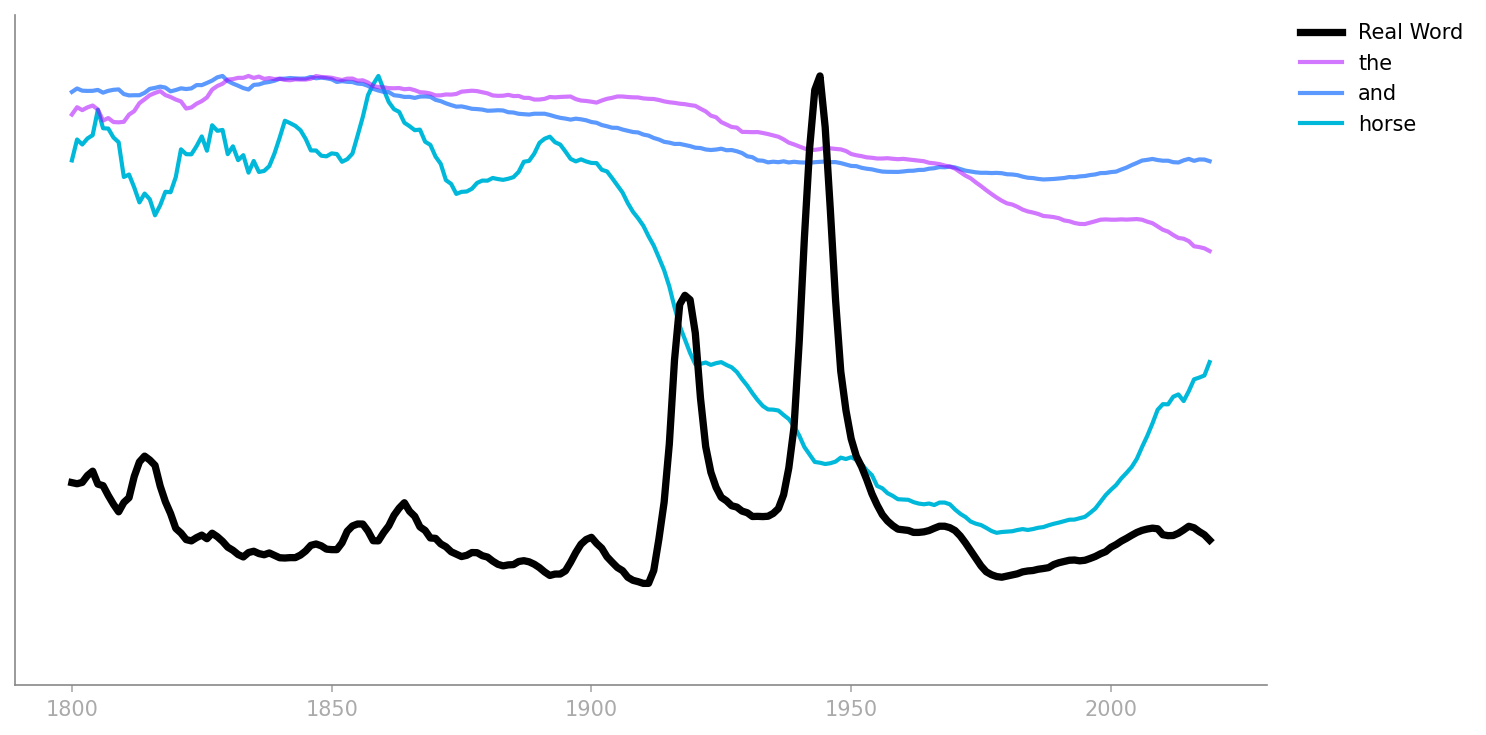
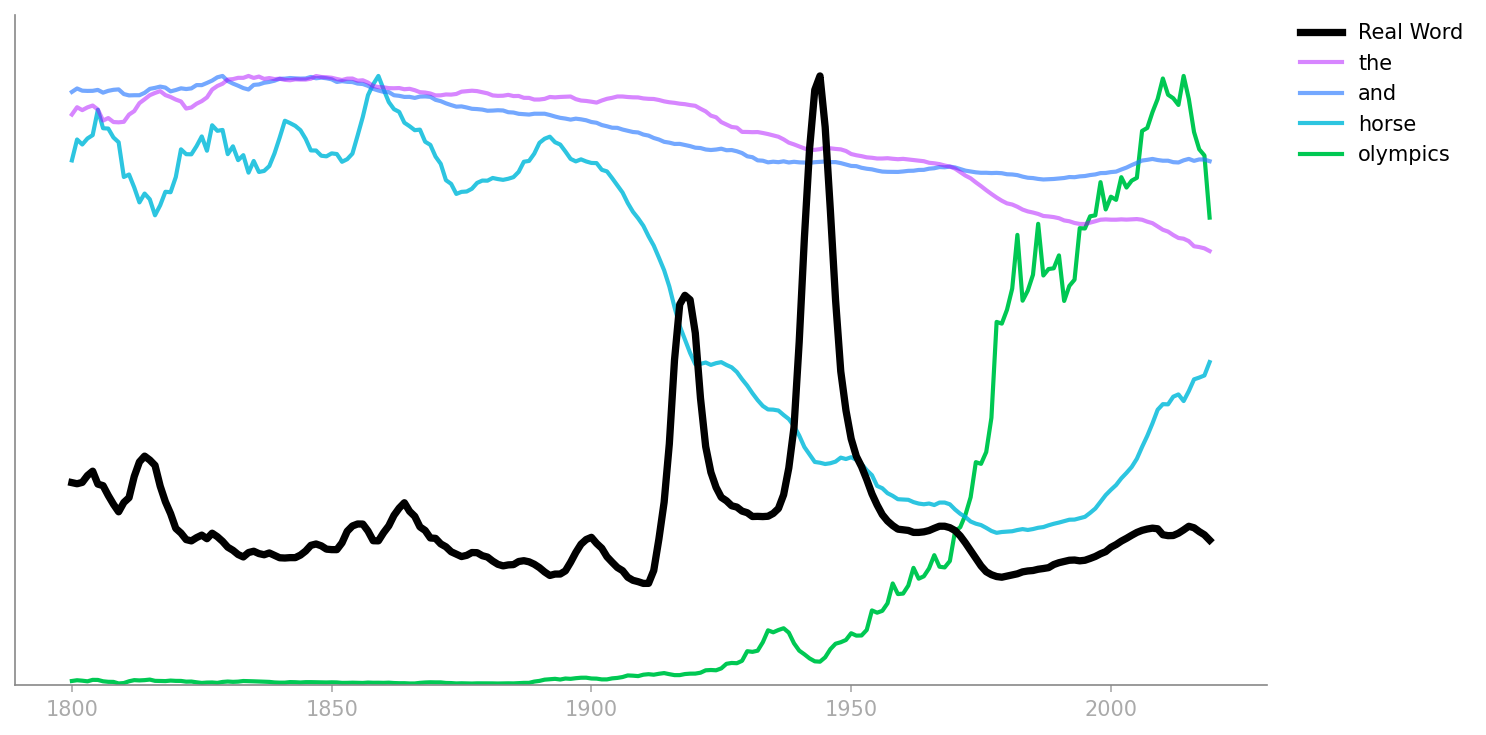
graphname

diff --git a/analyzer/server.py b/analyzer/server.py
@@ -7,7 +7,7 @@ from pathlib import Path
 import gettingdata
 
 WORDLIST_PATH = Path(__file__).parent / "data" / "wordlist.txt"
-IMG_SAVE_PATH = Path(__file__).parent / "img" / "graph.png"
+IMG_SAVE_PATH = Path(__file__).parent / "img"
 
 class Handler(BaseHTTPRequestHandler):
     # request = empty
@@ -31,8 +31,9 @@ class Handler(BaseHTTPRequestHandler):
     # and return the file name of the file
     def draw_graph_handler(self, body):
         # print(body['keywords'])
-        self.years, self.values = gettingdata.graph_of_words(body['keywords'], save_path=IMG_SAVE_PATH, years=self.years, values=self.values)
-        return {'image':str(IMG_SAVE_PATH) }
+        file_path = IMG_SAVE_PATH / ("-".join(body['keywords']) + ".png")
+        self.years, self.values = gettingdata.graph_of_words(body['keywords'], save_path=file_path, years=self.years, values=self.values)
+        return {'image':str(file_path) }
     
     def do_GET(self):
         response = { 'type': 'error', 'reason': 'Not found' }
